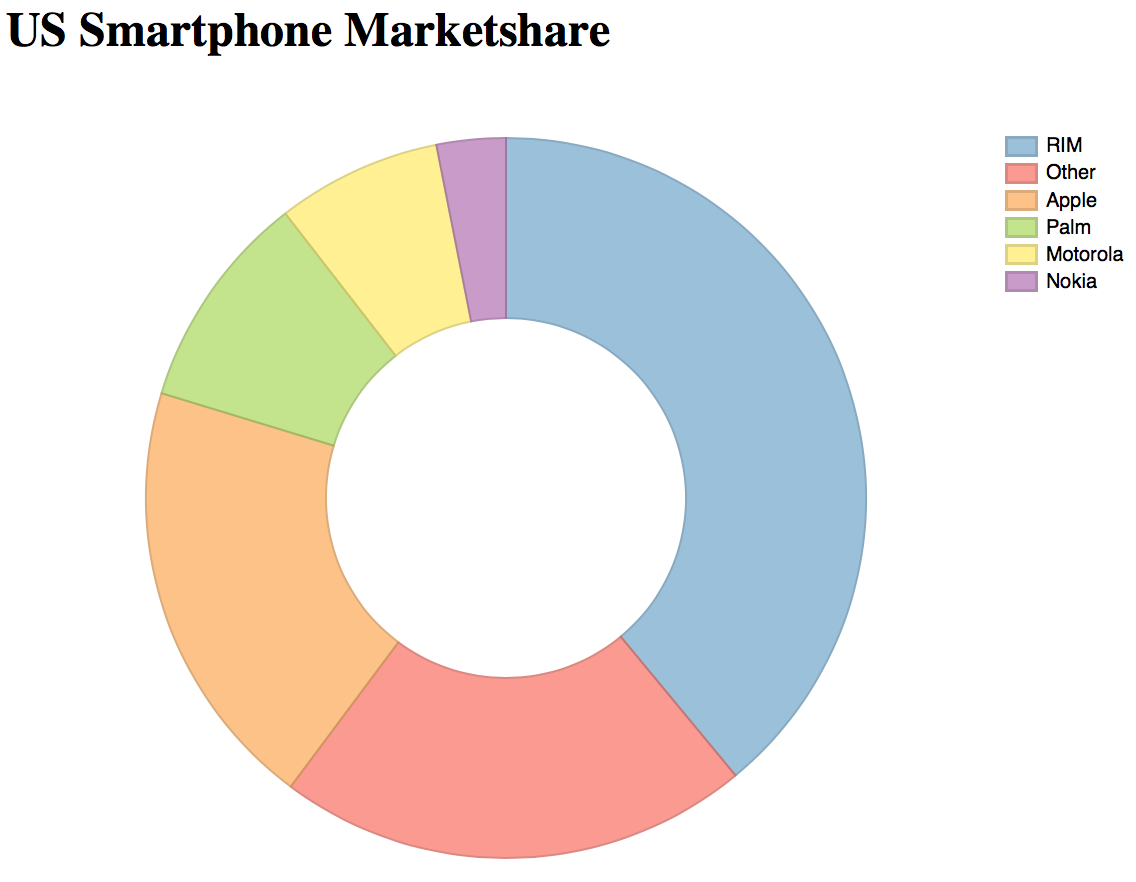
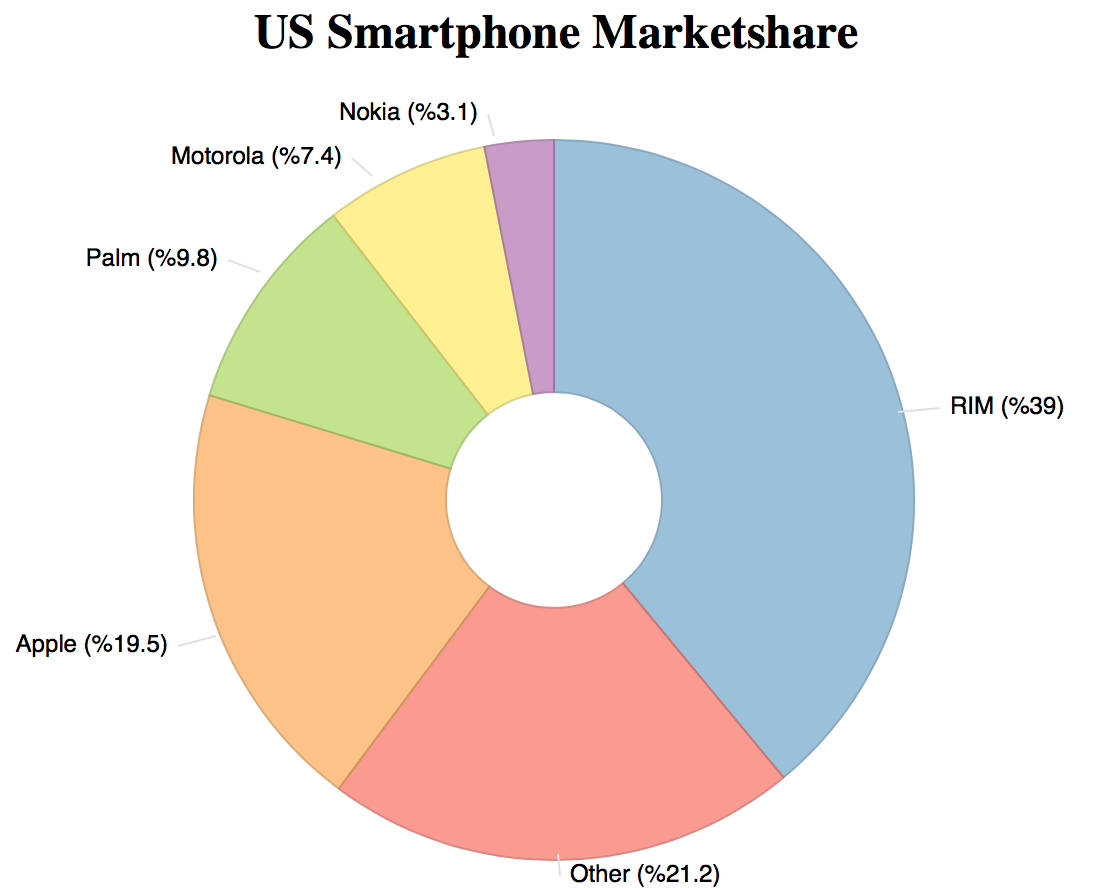
update images, variables

diff --git a/Alternative to Pie Chart/index.html b/Alternative to Pie Chart/index.html
@@ -1,0 +1,101 @@
+<html>
+<head>
+  <meta charset="utf-8">
+  <script src="http://d3js.org/d3.v4.min.js"></script>
+  <script src="http://dimplejs.org/dist/dimple.v2.3.0.min.js"></script>
+
+  <style>
+    circle.dimple-series-1 {
+      fill :red;
+    }
+
+    h2{
+      text-align: left;
+      margin-left: 120px;
+    }
+  </style>
+    <script type="text/javascript">
+      function draw(data) {
+        "use strict";
+        var margin = 75,
+            width = 1400 - margin,
+            height = 600 - margin;
+
+        d3.select('body').append('h2').text('US Smartphone Marketshare');
+
+        var svg = d3.select("body")
+          .append("svg")
+            .attr("width", width + margin)
+            .attr("height", height + margin)
+            .append('g')
+            .attr('class','chart');
+
+        var myChart = new dimple.chart(svg, initialData);
+        myChart.setBounds(40, 20, 460, 360)
+        myChart.addMeasureAxis("p", "percent");
+        var ring = myChart.addSeries("name", dimple.plot.pie);
+        ring.innerRadius = "30%";
+        // myChart.addLegend(500, 20, 90, 300, "left");
+        // myChart.addLegend(0, 0, 90, '100%', "left");
+        ring.afterDraw = function(shape, data) {
+				var g = svg.select("g");
+        //find the center of the pie
+				var grect =  g.node().getBBox();
+				var gmidx =  grect.x + (grect.width - 7)/2;	
+				var gmidy =  grect.y + (grect.height - 7)/2;
+				var radius = (grect.height - 7) / 2; 
+        //find the center of the pie-part
+				var srect =  d3.select(shape).node().getBBox();
+				var smidx =  srect.x + srect.width/2;	
+				var smidy =  srect.y + srect.height/2;
+        //get the direction:
+        //the parts are arranged around the center as origin (0,0)
+        //so the direction is simply the mid point of the pie-part
+				var dirx =   smidx;
+				var diry =   smidy;
+				var norm =   Math.sqrt(dirx * dirx + diry * diry);
+				//normalize the direction
+				dirx /= norm;
+				diry /= norm;
+        //multiply direction by radius to find placement for label
+        //get two points: where to put label, and where to draw a line
+				var x = Math.round(gmidx + (radius + 25) * dirx);
+				var y = Math.round(gmidy + (radius + 15)  * diry);
+				var xOnPie = Math.round(gmidx + (radius+4) * dirx);
+				var yOnPie = Math.round(gmidy + (radius+4) * diry);
+        //append label
+				var node = svg.append("text")
+		        	.attr("x", x + ((dirx > 0) ? 5 : -5))
+		        	.attr("y", y + 3)
+					.style("font-size", "12px")
+		        	.style("font-family", "sans-serif")
+		        	.style("text-anchor", (dirx > 0) ? "start" : "end")
+				    .style("fill", "black")
+					.text(data.aggField[0] + " (%" + data.p +")");
+        //append line
+				svg.append("line")
+				    .attr("x1", x)
+				    .attr("y1", y)
+				    .attr("x2", xOnPie)
+				    .attr("y2", yOnPie)
+				    .style("stroke", "#e0e0e0");
+			}
+
+        myChart.draw();
+      };
+      </script>
+  </head>
+<body>
+  <script type="text/javascript">
+  var initialData = [
+    {'name' : 'Apple', 'percent' : 19.5 },
+    {'name' : 'Motorola', 'percent' : 7.4 },
+    {'name' : 'Nokia', 'percent' : 3.1 },
+    {'name' : 'Other', 'percent' : 21.2 },
+    {'name' : 'Palm', 'percent' : 9.8 },
+    {'name' : 'RIM', 'percent' : 39 }
+  ];
+  d3.json(initialData, draw);
+  </script>
+</body>
+</html>

diff --git a/Visualization Makeover/index.html b/Visualization Makeover/index.html
@@ -32,7 +32,7 @@
         var myChart = new dimple.chart(svg, initialData);
         var x = myChart.addMeasureAxis("x", "rate"); 
         myChart.addCategoryAxis("y", "name");
-        myChart.addSeries(null, dimple.plot.bar);
+        myChart.addSeries("name", dimple.plot.bar);
         myChart.draw();
       };
       </script>

diff --git a/README.md b/README.md
@@ -7,11 +7,13 @@ Raw Visualizations
 <img height="600" src="img/eurovisionscores.jpg">
 
 Visualization Makeover
+
 | | |
 |:-------------------------:|:-------------------------:|
 |<img height="300" src="img/estimativa.jpg">Original (source: viz.wtf) | <img height="300" src="img/estimativa_fixed.jpg">Fixed|
 
 Alternatives to Pie Chart
+
 | | |
 |:-------------------------:|:-------------------------:|
 |<img height="300" src="img/phonemarketshare.jpg">Original (source: ytimg.com) | <img height="300" src="img/phonemarketshare_fixed.jpg">Fixed|
